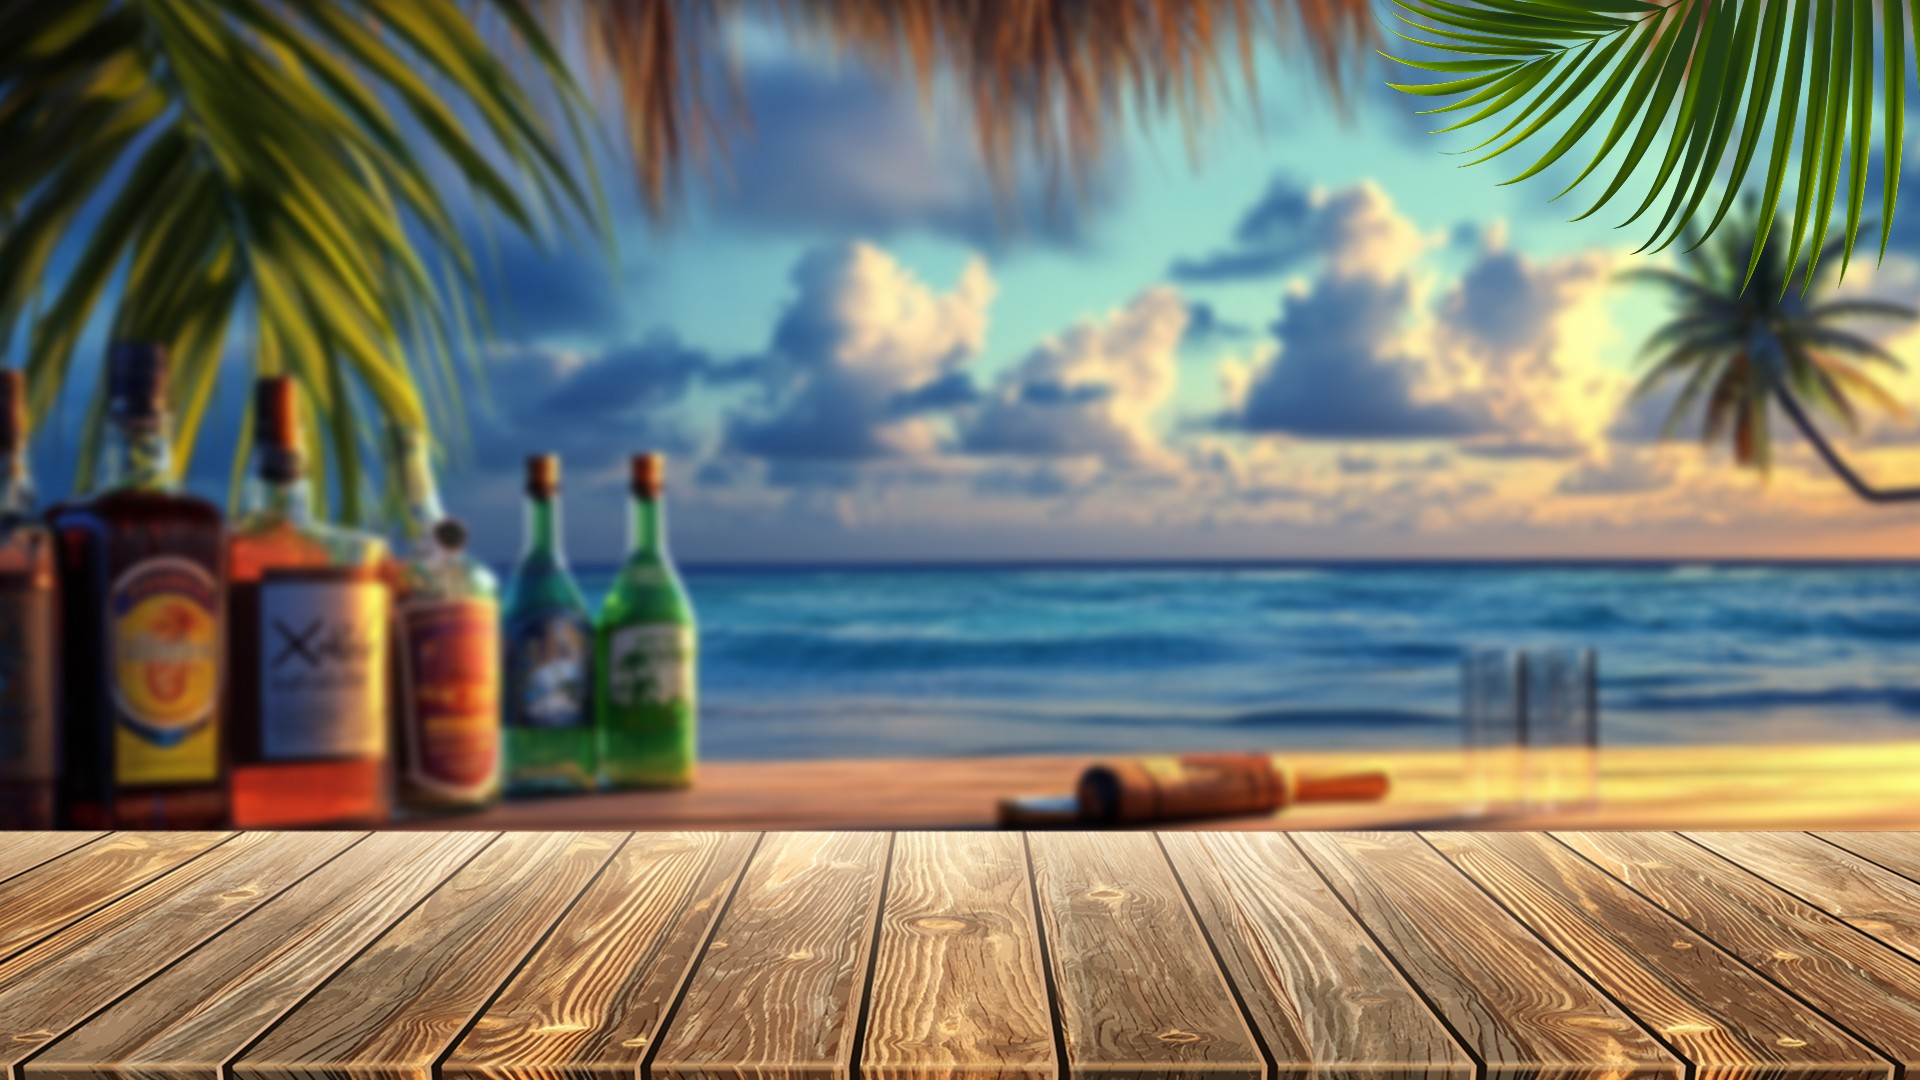
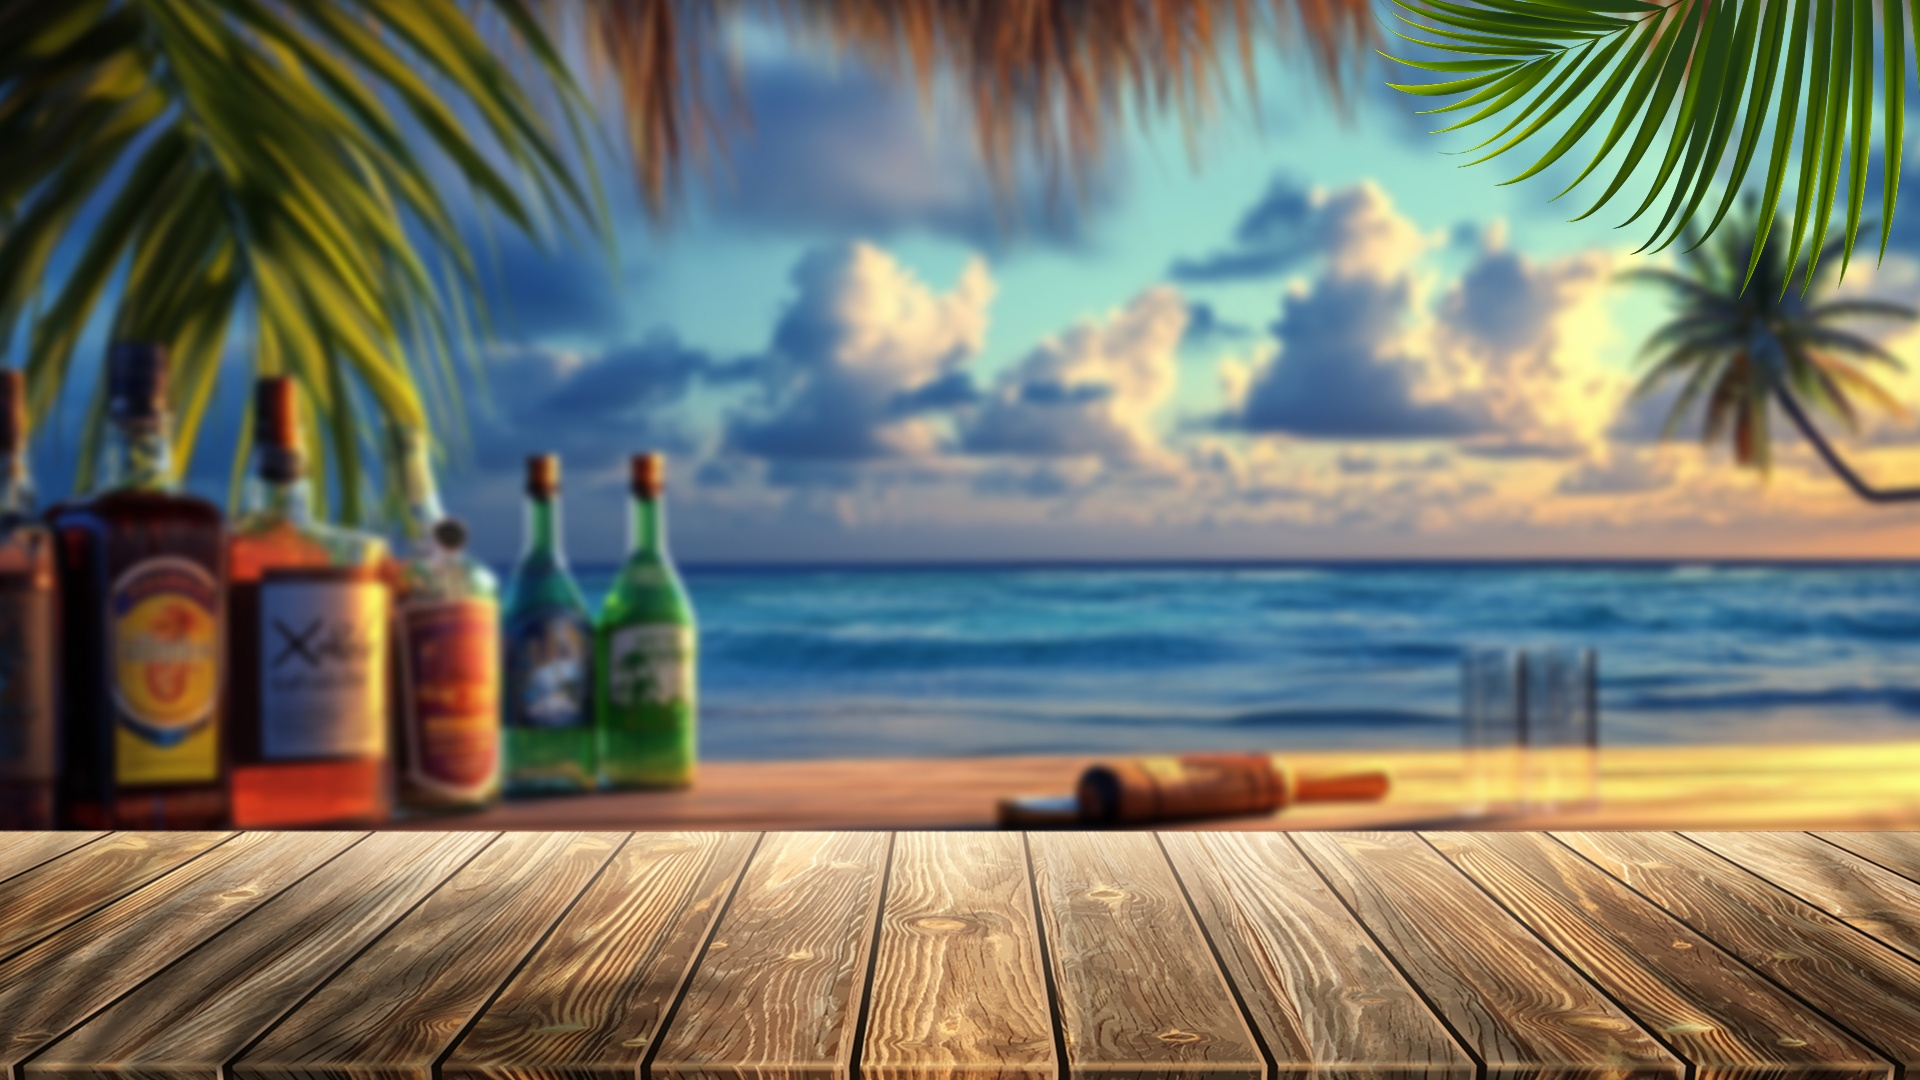
Added shadows.

Changed region(s): [[0.0, 0.7639, 0.375, 1.0], [0.6875, 0.7639, 1.0, 1.0]]

diff --git a/src/views/SlotMachineView.ts b/src/views/SlotMachineView.ts
@@ -2,7 +2,12 @@ import { lego } from "@armathai/lego";
 import anime from "animejs";
 import { Container, Graphics, Rectangle, Sprite, Texture } from "pixi.js";
 import { HEIGHT, OFFSET_X, WIDTH } from "../config";
-import { dockSpriteConfig, reelShadowConfig } from "../configs/spritesConfig";
+import {
+  dockLeftShadowConfig,
+  dockRightShadowConfig,
+  dockSpriteConfig,
+  reelShadowConfig,
+} from "../configs/spritesConfig";
 import { ReelViewEvents, SlotMachineViewEvents } from "../events/MainEvents";
 import { ReelModelEvents, SlotMachineModelEvents } from "../events/ModelEvents";
 import { ElementModel } from "../models/ElementModel";
@@ -41,7 +46,9 @@ export class SlotMachineView extends Container {
 
   private build(): void {
     this.dock = makeSprite(dockSpriteConfig());
-    this.addChild(this.dock);
+    const leftShadow = makeSprite(dockLeftShadowConfig());
+    const rightShadow = makeSprite(dockRightShadowConfig());
+    this.addChild(this.dock, leftShadow, rightShadow);
 
     this.buildReels();
 

diff --git a/src/assets/assetsNames/atlases.ts b/src/assets/assetsNames/atlases.ts
@@ -3,6 +3,9 @@
 import introPng from "../atlas/intro.png?inline";
 import introJson from "../atlas/intro.json";
 
+import shadowsPng from "../atlas/shadows.png?inline";
+import shadowsJson from "../atlas/shadows.json";
+
 import slotMachinePng from "../atlas/slotMachine.png?inline";
 import slotMachineJson from "../atlas/slotMachine.json";
 
@@ -17,6 +20,7 @@ import winsJson from "../atlas/wins.json";
 
 export const ATLASES = [
   { name: "intro", img: introPng, json: introJson },
+  { name: "shadows", img: shadowsPng, json: shadowsJson },
   { name: "slotMachine", img: slotMachinePng, json: slotMachineJson },
   { name: "symbols", img: symbolsPng, json: symbolsJson },
   { name: "ui", img: uiPng, json: uiJson },

diff --git a/src/configs/spritesConfig.ts b/src/configs/spritesConfig.ts
@@ -19,6 +19,24 @@ export const dockSpriteConfig = (): SpriteConfig => ({
   anchor: { x: 0.5, y: 0 },
 });
 
+export const dockLeftShadowConfig = (): SpriteConfig => ({
+  frame: "shadow_left.png",
+  x: -1175,
+  y: 1085,
+  scaleX: 1.5,
+  scaleY: 1.5,
+  anchor: { x: 0, y: 1 },
+});
+
+export const dockRightShadowConfig = (): SpriteConfig => ({
+  frame: "shadow_right.png",
+  x: 1932,
+  y: 1112,
+  scaleX: 1.5,
+  scaleY: 1.5,
+  anchor: { x: 1, y: 1 },
+});
+
 export const popupBkgConfig = (): SpriteConfig => ({
   atlas: "ui.png",
   frame: lp("error_l.png", "error_p.png"),

diff --git a/src/configs/gridConfigs/introViewGC.ts b/src/configs/gridConfigs/introViewGC.ts
@@ -29,7 +29,7 @@ const getIntroViewGridPortraitConfig = () => {
   const bounds = { x: 0, y: 0, width: document.body.clientWidth, height: document.body.clientHeight };
   return {
     name: "intro",
-    debug: { color: 0xd9ff27 },
+    // debug: { color: 0xd9ff27 },
     bounds,
     cells: [
       {
